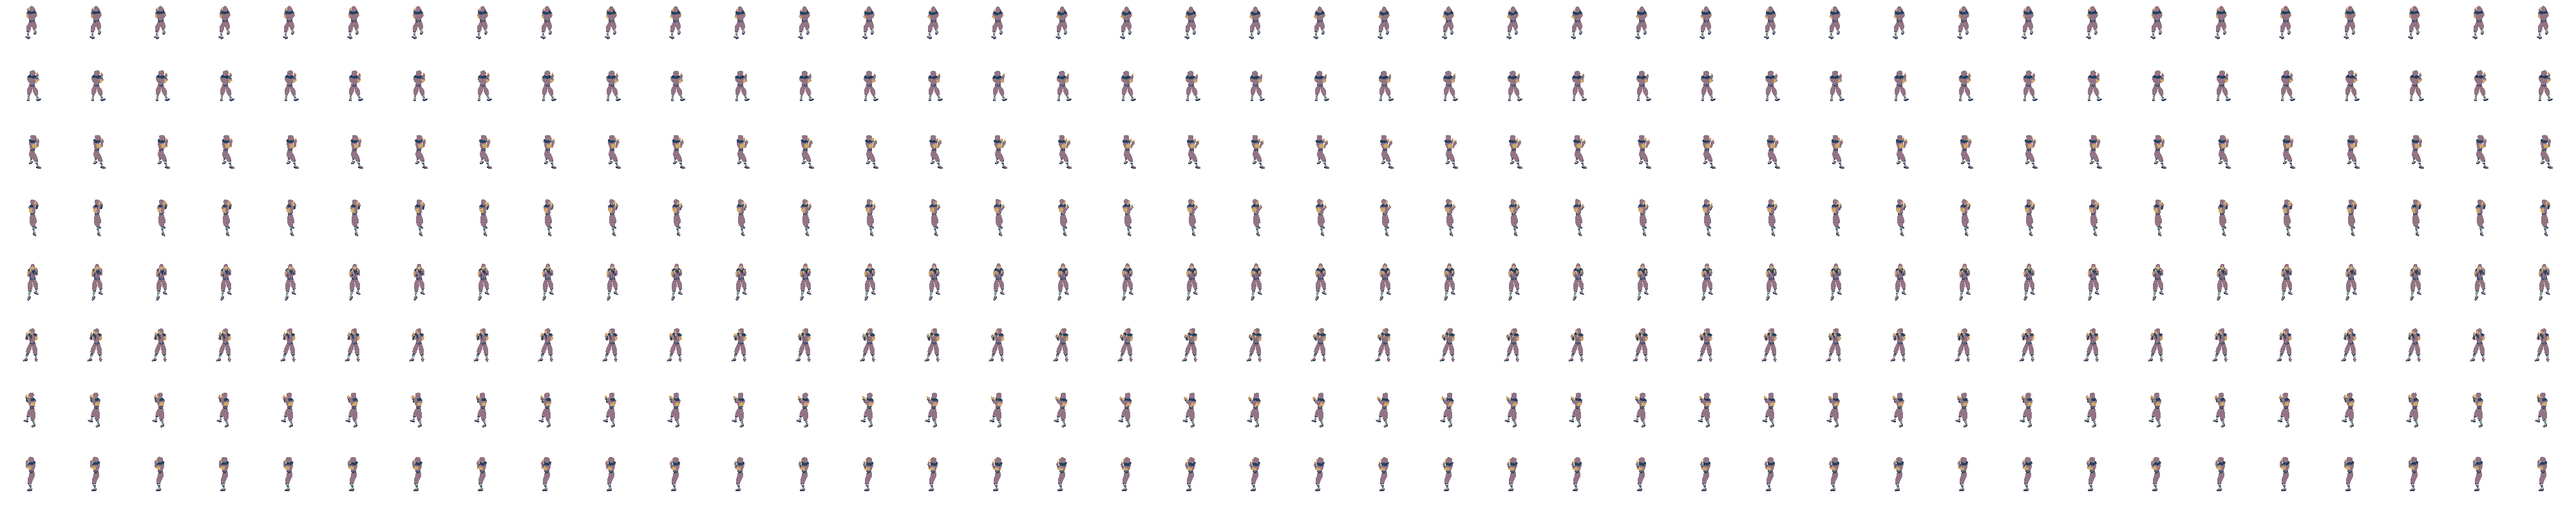
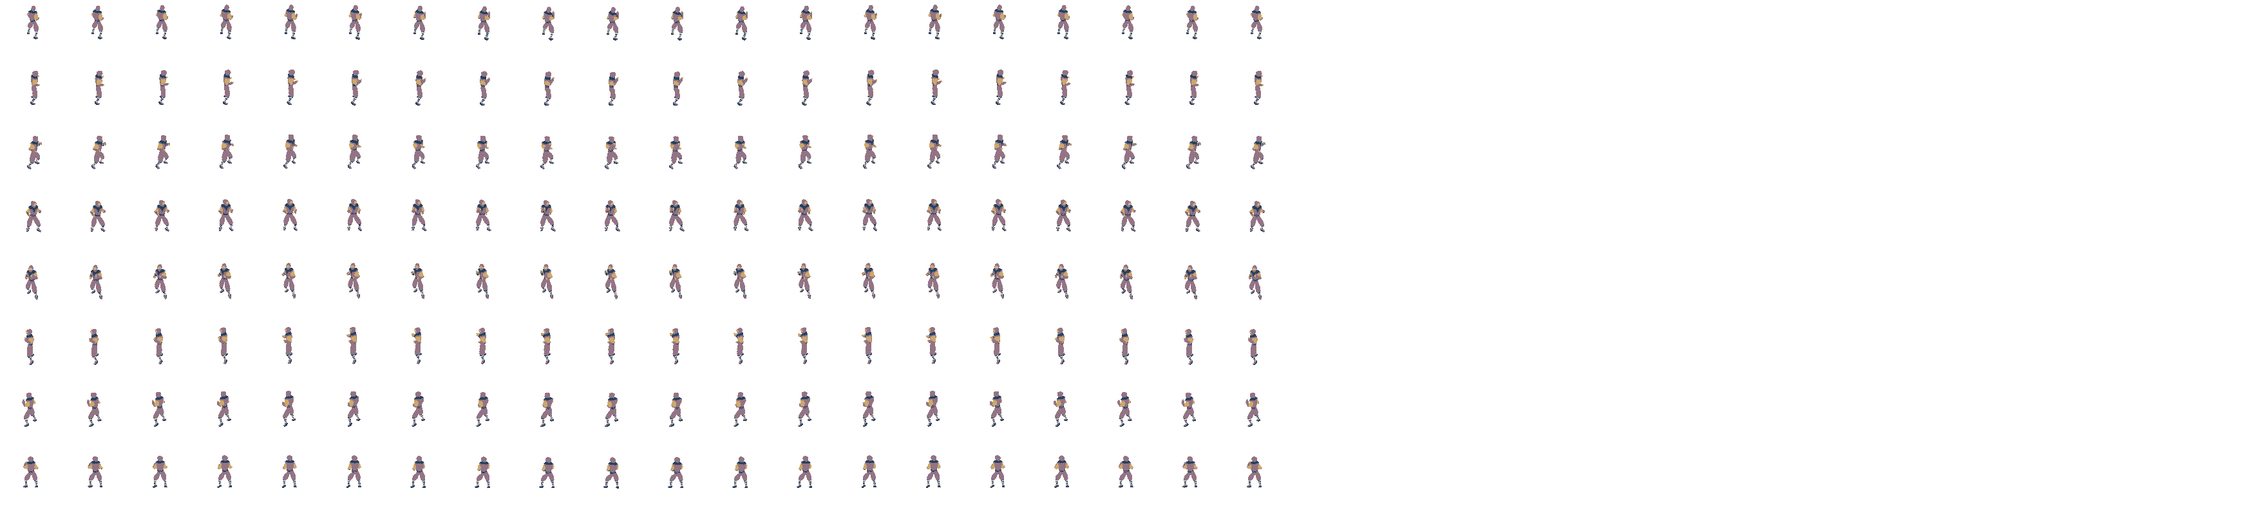
feat: Update idle animation

diff --git a/src/assets/mod.rs b/src/assets/mod.rs
@@ -23,7 +23,7 @@ pub struct GameAssets {
     )]
     pub dude_textures: Vec<Handle<Image>>,
 
-    #[asset(texture_atlas_layout(tile_size_x = 100, tile_size_y = 100, columns = 40, rows = 8))]
+    #[asset(texture_atlas_layout(tile_size_x = 100, tile_size_y = 100, columns = 35, rows = 8))]
     pub dude_layout: Handle<TextureAtlasLayout>,
     #[asset(
         paths(
